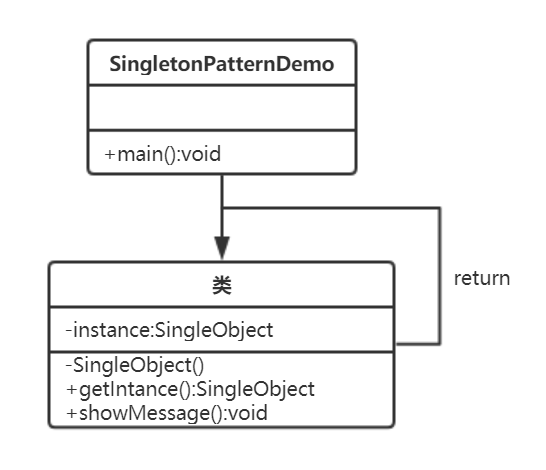
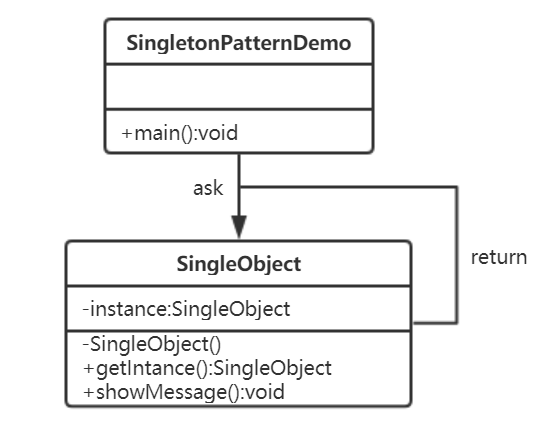
update 单例模式

Changed region(s): [[0.0623, 0.0305, 0.9652, 0.9765]]

diff --git a/src/index3.js b/src/index3.js
@@ -1,0 +1,38 @@
+// 单例模式-模拟登录框
+class LoginForm {
+    constructor () {
+        this.state = 'hide'
+    }
+    show() {
+        if (this.state === 'show') {
+            console.log('已经显示')
+            return
+        }
+        this.state = 'show'
+        console.log('登录框显示')
+    }
+    hide() {
+        if (this.state === 'hide') {
+            console.log('已经隐藏')
+            return
+        }
+        this.state = 'hide'
+        console.log('登录框隐藏')
+    }
+}
+LoginForm.getIntance = (function() {
+    let instance
+    return function() {
+        if (!instance) {
+            instance = new LoginForm()
+        }
+        return instance
+    }
+})()
+
+// 测试
+let login1 = LoginForm.getIntance()
+login1.show() // 登录框显示
+let login2 = LoginForm.getIntance()
+login2.show() // 已经显示
+console.log(login1 === login2) // true

diff --git a/src/index2.js b/src/index2.js
@@ -1,0 +1,27 @@
+// 单例模式实现
+class SingleObject {
+    login() {
+        console.log('login')
+    }
+}
+SingleObject.getInstance = (function(){
+    let instance
+    return function() {
+        if (!instance) {
+            instance = new SingleObject()
+        }
+        return instance
+    }
+})()
+
+// 测试 
+let obj1 = SingleObject.getInstance()
+obj1.login()
+let obj2 = SingleObject.getInstance()
+obj2.login()
+console.log(obj1 === obj2) // true
+
+//JavaScript中的私有 需要自主实现，当这里使用的不是静态函数getInstance，而是直接 new SingleObject()时 则不是单例
+let obj3 = new SingleObject()
+obj3.login()
+console.log(obj1 === obj3) // false

diff --git a/README.md b/README.md
@@ -1,4 +1,4 @@
-# design-pattern
+# Javascript 设计模式
 
 这里是本人学习JavaScript设计模式的学习笔记
 
@@ -159,9 +159,29 @@ UML类图
 
 ![](./src/img/4.png)
 
-实现（只能用Java代码来演示UML图的内容）
+实现
+
+[单例模式实现](./src/index2.js)
 
 使用场景
+
+- JQuery只有一个$
+
+  ```js
+  if (window.jQuery != null) {
+      return window.jQuery
+  } else {
+      // 初始化...
+  }
+  ```
+
+- 登录框
+
+  [模拟实现登录框](./src/index3.js)
+
+- 购物车
+
+- vuex和redux中的store
 
 ### 适配器模式
 
